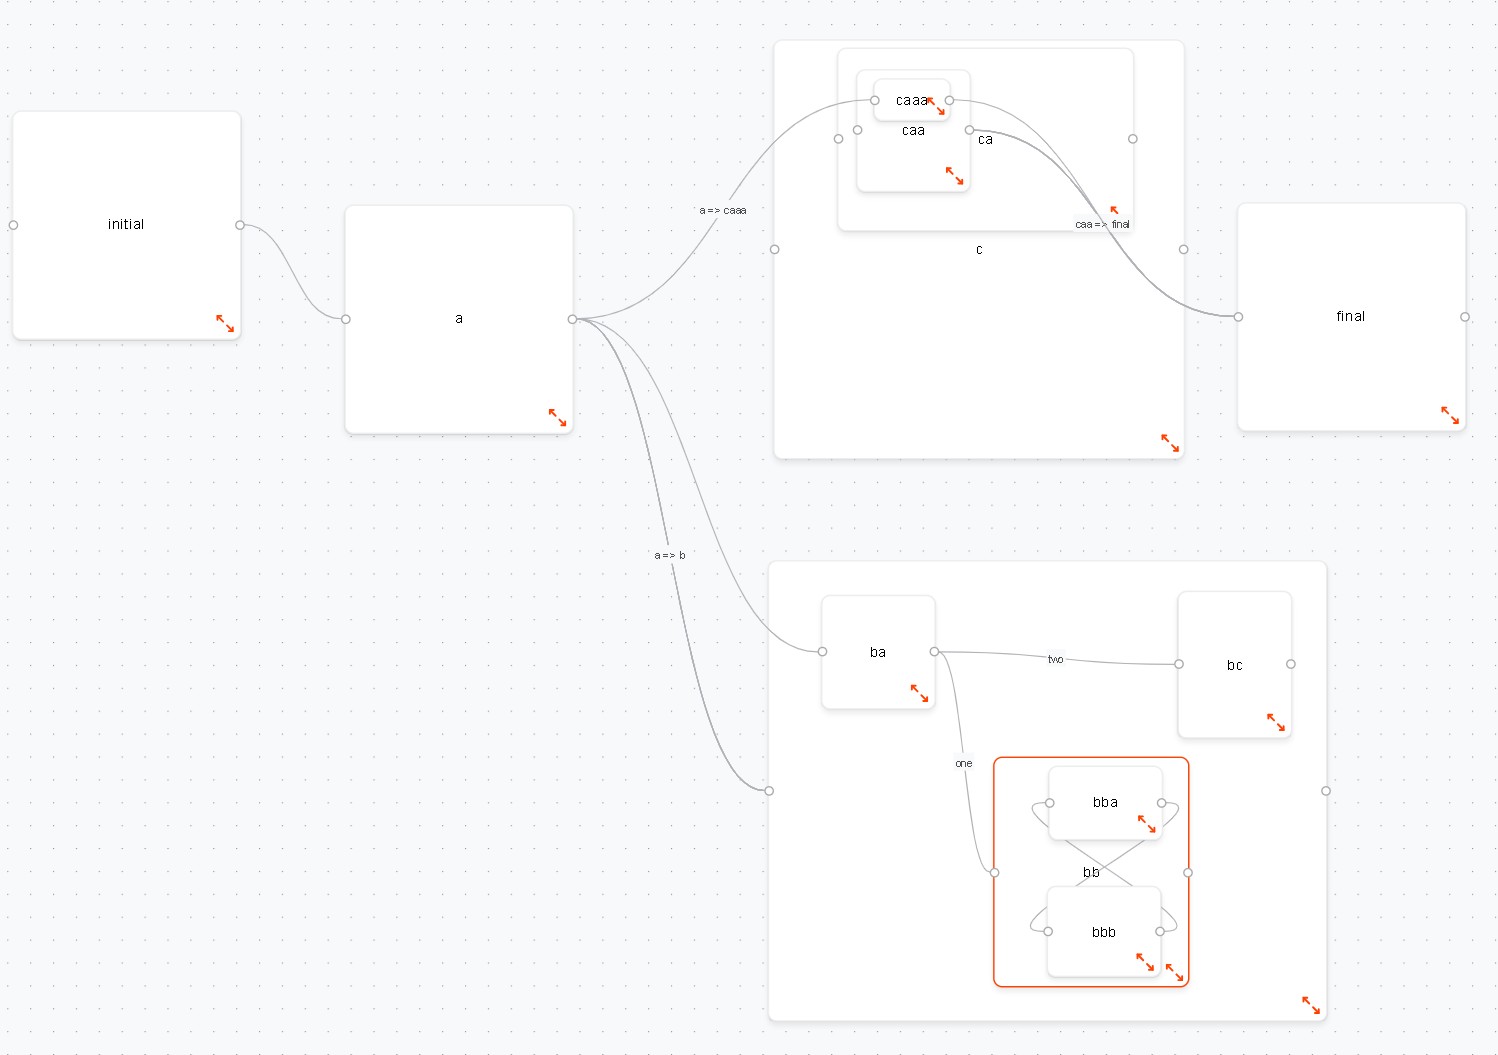
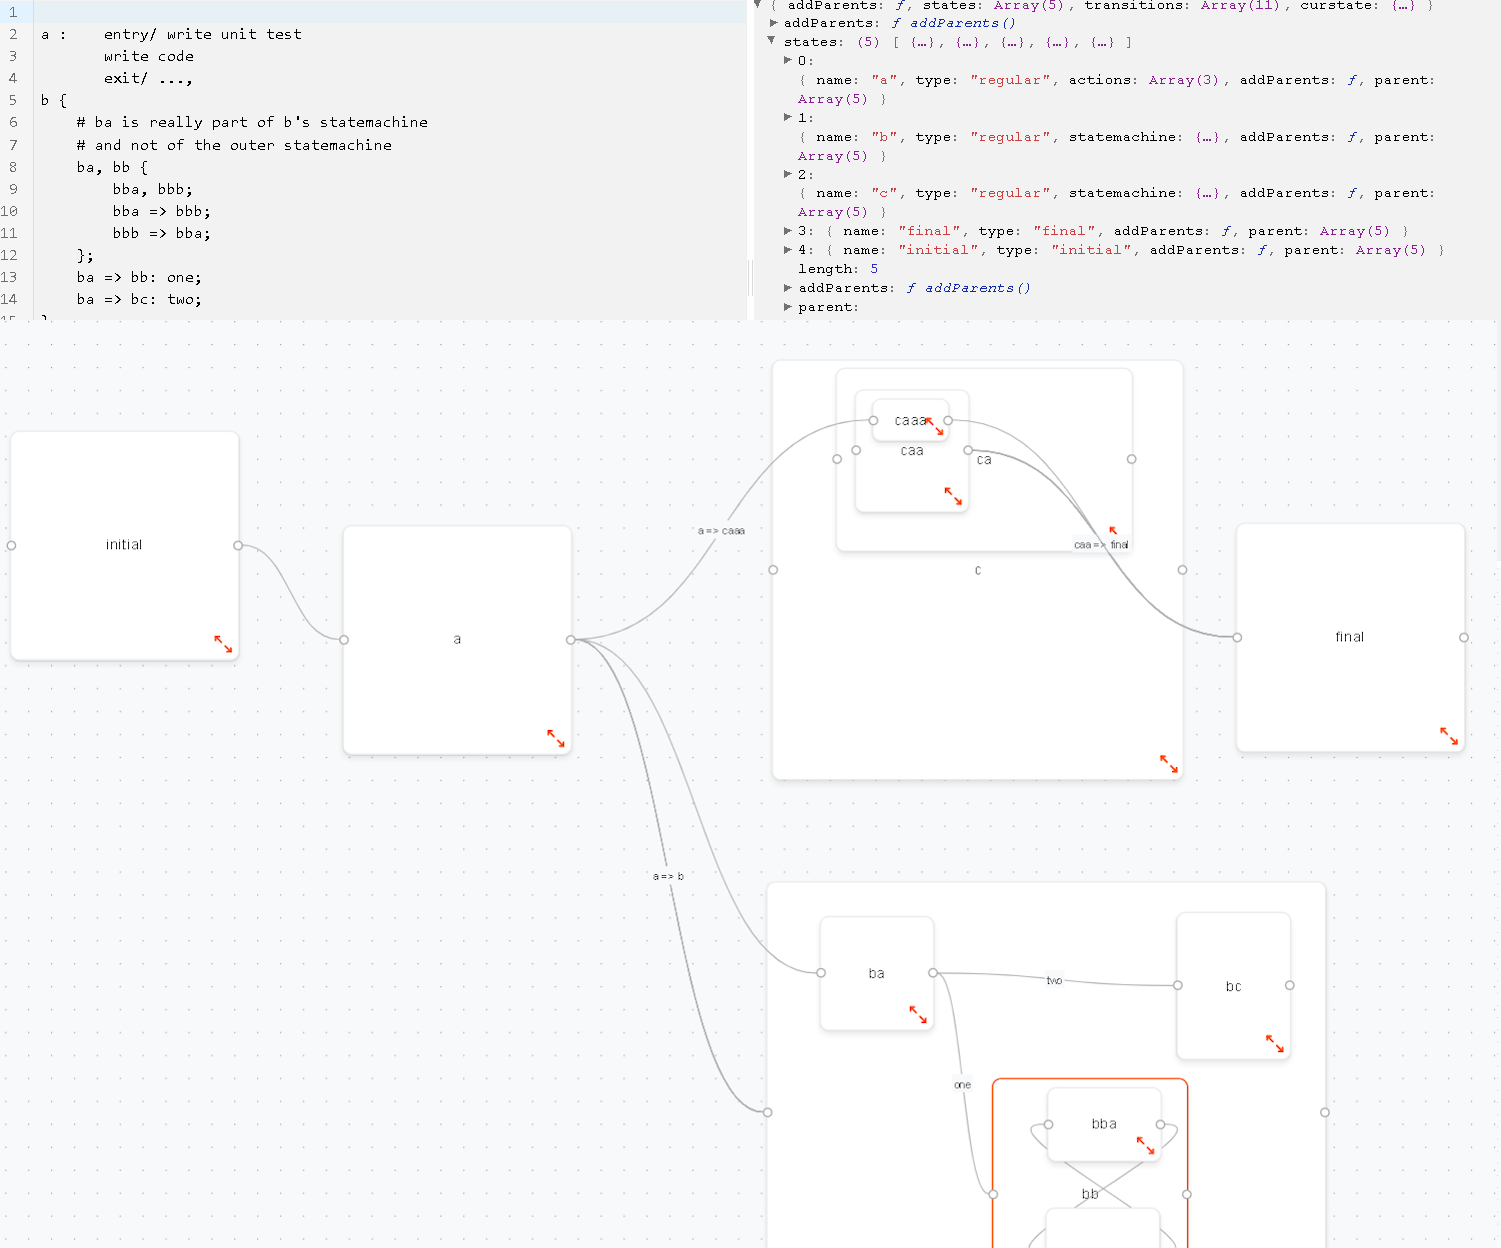
Screenshot update.

diff --git a/src/App.svelte b/src/App.svelte
@@ -1,107 +1,17 @@
 <script lang="ts">
-	import {
-		SvelteFlow,
-		Controls,
-		MiniMap,
-		Position,
-		type Node,
-		type Edge,
-		type XYPosition,
-		Background
-	} from '@xyflow/svelte';
 
 	import { Pane, Splitpanes } from 'svelte-splitpanes';
 	import JSONTree from './svelte-json-tree/index.ts';
+	import Statechart from './Statechart.svelte';
 
 	import { sm, smSrc } from './lib/sm-state.svelte';
 
 	import CodeMirror from 'svelte-codemirror-editor';
 
-	import ResizableNodeSelected from './ResizableNodeSelected.svelte';
-	import CustomResizerNode from './CustomResizerNode.svelte';
-
-	import '@xyflow/svelte/dist/style.css';
+	
 	//import '@../index.css'
 
-	import type { IExeStateMachine } from '../state-machine-cat/src/exec/index.mjs';
-
-	const nodeTypes = {
-		selectorNode: CustomResizerNode,
-		customResizerNode: CustomResizerNode
-	};
-
-	let { nodes1, edges1 } = $props();
-	nodes1 = new Array<Node>();
-	edges1 = new Array<Edge>();
-
-	let initPos = { x: 0, y: 0 };
-
-	let dim = 400;
-	const nodeDefaults = {
-		sourcePosition: Position.Right,
-		targetPosition: Position.Left
-	};
-	function addNodes(
-		statemachine: IExeStateMachine,
-		out: Node[],
-		parentPos: XYPosition,
-		parentDim: number,
-		parentId: string | null
-	) {
-		// nodes (states)
-		for (let prop = 0; prop != statemachine.states.length; ++prop) {
-			const childDim = parentDim / 2;
-			const childPos = { x: parentPos.x + 10 + prop * 2, y: parentPos.y };
-			const id = statemachine.states[prop].name;
-			//console.log(statemachine.states[prop].name)
-			let node = {
-				id: id,
-				//type: 'default',
-				//type: 'ResizableNodeSelected',
-				type: 'customResizerNode',
-				//type: 'selectorNode',
-
-				data: { label: id },
-				position: childPos,
-				width: childDim,
-				height: childDim
-			};
-			if (parentId) {
-				node.parentId = parentId;
-			}
-			out.push(node);
-
-			if (statemachine.states[prop].hasOwnProperty('statemachine')) {
-				addNodes(
-					statemachine.states[prop].statemachine as IExeStateMachine,
-					out,
-					childPos,
-					childDim,
-					id
-				);
-			}
-		}
-		// edges (transitions)
-		if (statemachine.hasOwnProperty('transitions') && statemachine.transitions) {
-			for (let prop = 0; prop != statemachine.transitions.length; ++prop) {
-				let edge = {
-					id: statemachine.transitions[prop].id,
-					source: statemachine.transitions[prop].from,
-					target: statemachine.transitions[prop].to
-				};
-				if (statemachine.transitions[prop].label) {
-					edge.label = statemachine.transitions[prop].label;
-				}
-				edges1.push(edge);
-			}
-		}
-	}
-	addNodes(sm, nodes1, initPos, dim, null);
-
-	let nodes = $state.raw<Node[]>(nodes1);
-	let edges = $state.raw<Edge[]>(edges1);
-	console.log(nodes1);
-	console.log(edges1);
+	
 
 	// setInterval(() => {
 	// 	console.log(nodes);
@@ -121,51 +31,6 @@
 		</Splitpanes>
 	</Pane>
 	<Pane>
-		<SvelteFlow bind:nodes bind:edges {nodeTypes} fitView>
-			<div class="updatenode__controls">
-				<button on:click={() => {}}>Update</button>
-			</div>
-			<Background />
-			<Controls />
-			<MiniMap />
-		</SvelteFlow>
+		<Statechart/>	
 	</Pane>
 </Splitpanes>
-
-<!-- <label>label:</label>
-				<input value={''} />
-
-				<label class="updatenode__bglabel">background:</label>
-				<input value={''} /> -->
-<!-- <div class="updatenode__checkboxwrapper">
-					<label>hidden:</label>
-					<input
-						type="checkbox"
-						checked={nodeHidden}
-						on:input={(evt) => (nodeHidden = evt.target?.checked)}
-					/>
-				</div> -->
-
-<style>
-	:global(.updatenode__controls) {
-		position: absolute;
-		right: 10px;
-		top: 10px;
-		z-index: 4;
-		font-size: 12px;
-	}
-
-	:global(.updatenode__controls label) {
-		display: block;
-	}
-
-	:global(.updatenode__bglabel) {
-		margin-top: 10px;
-	}
-
-	:global(.updatenode__checkboxwrapper) {
-		margin-top: 10px;
-		display: flex;
-		align-items: center;
-	}
-</style>
